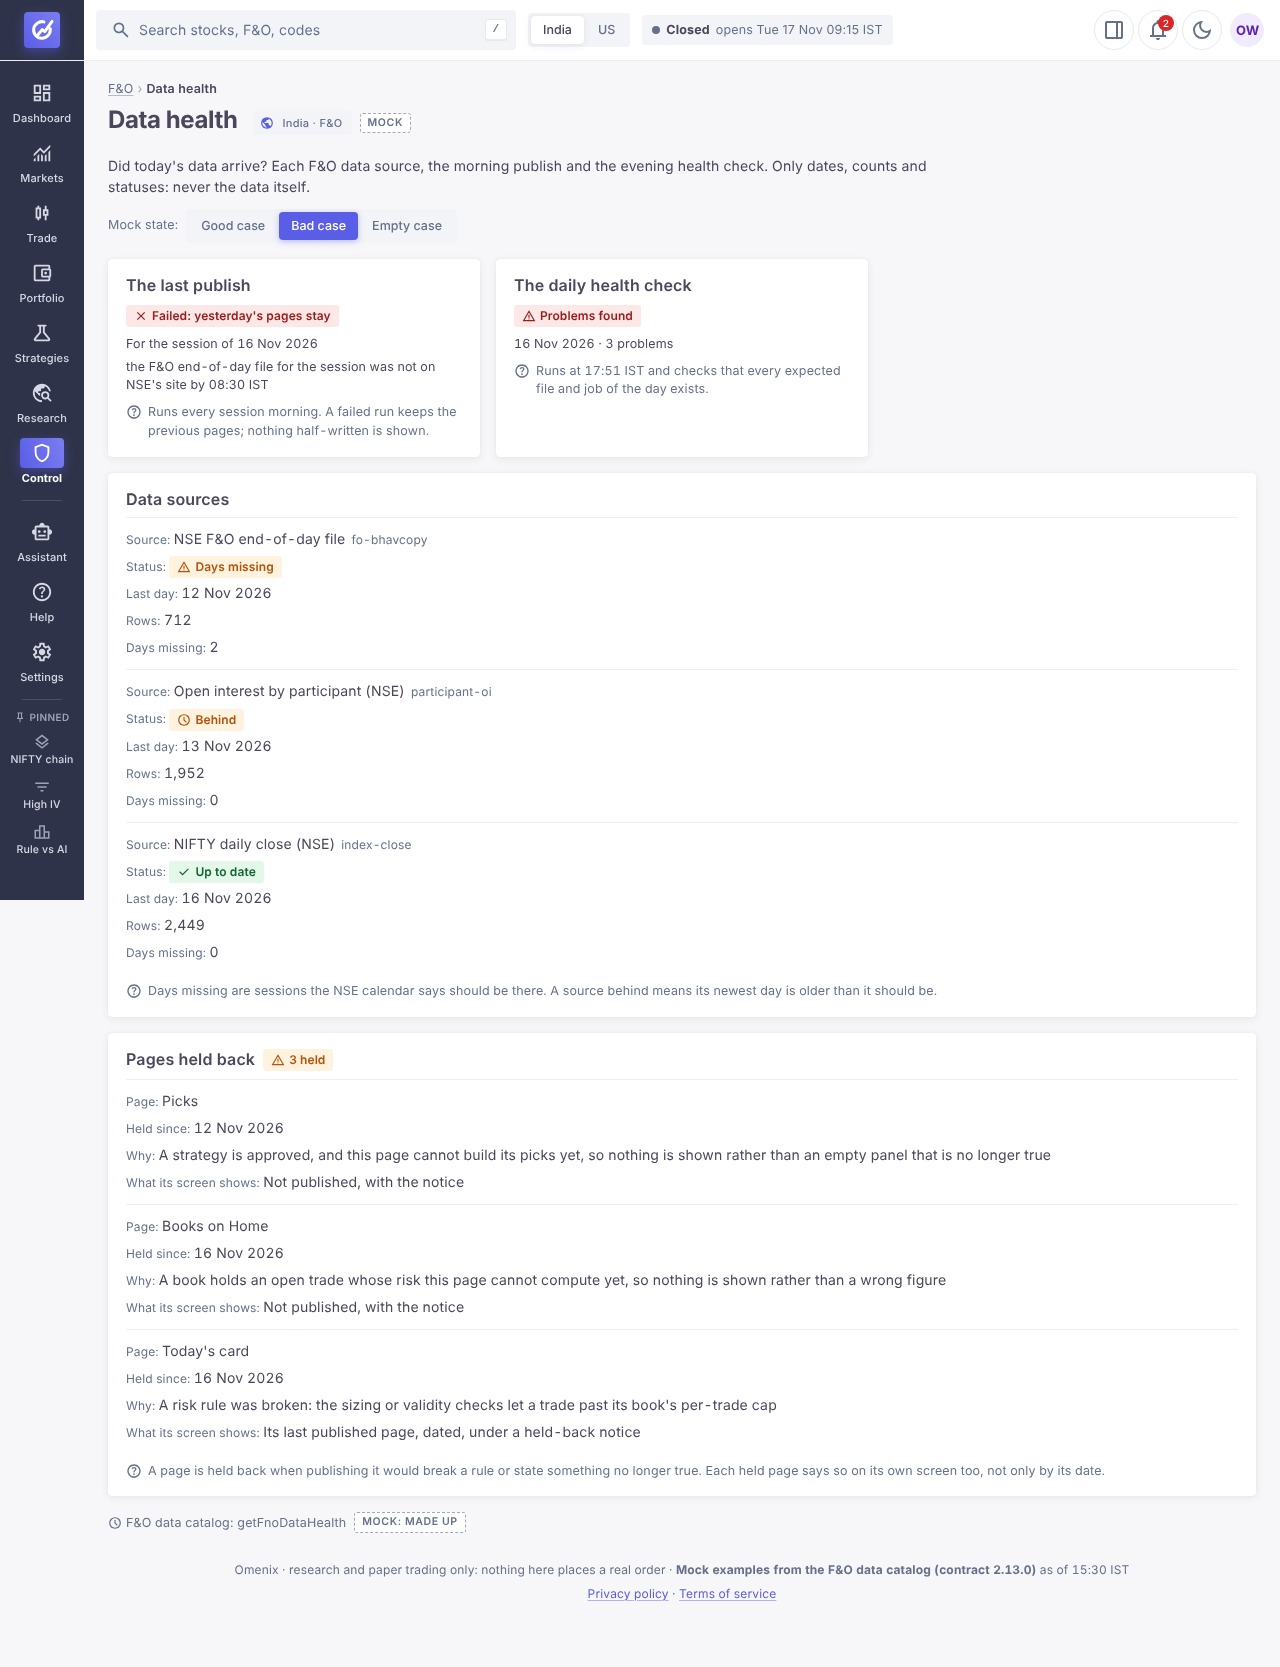
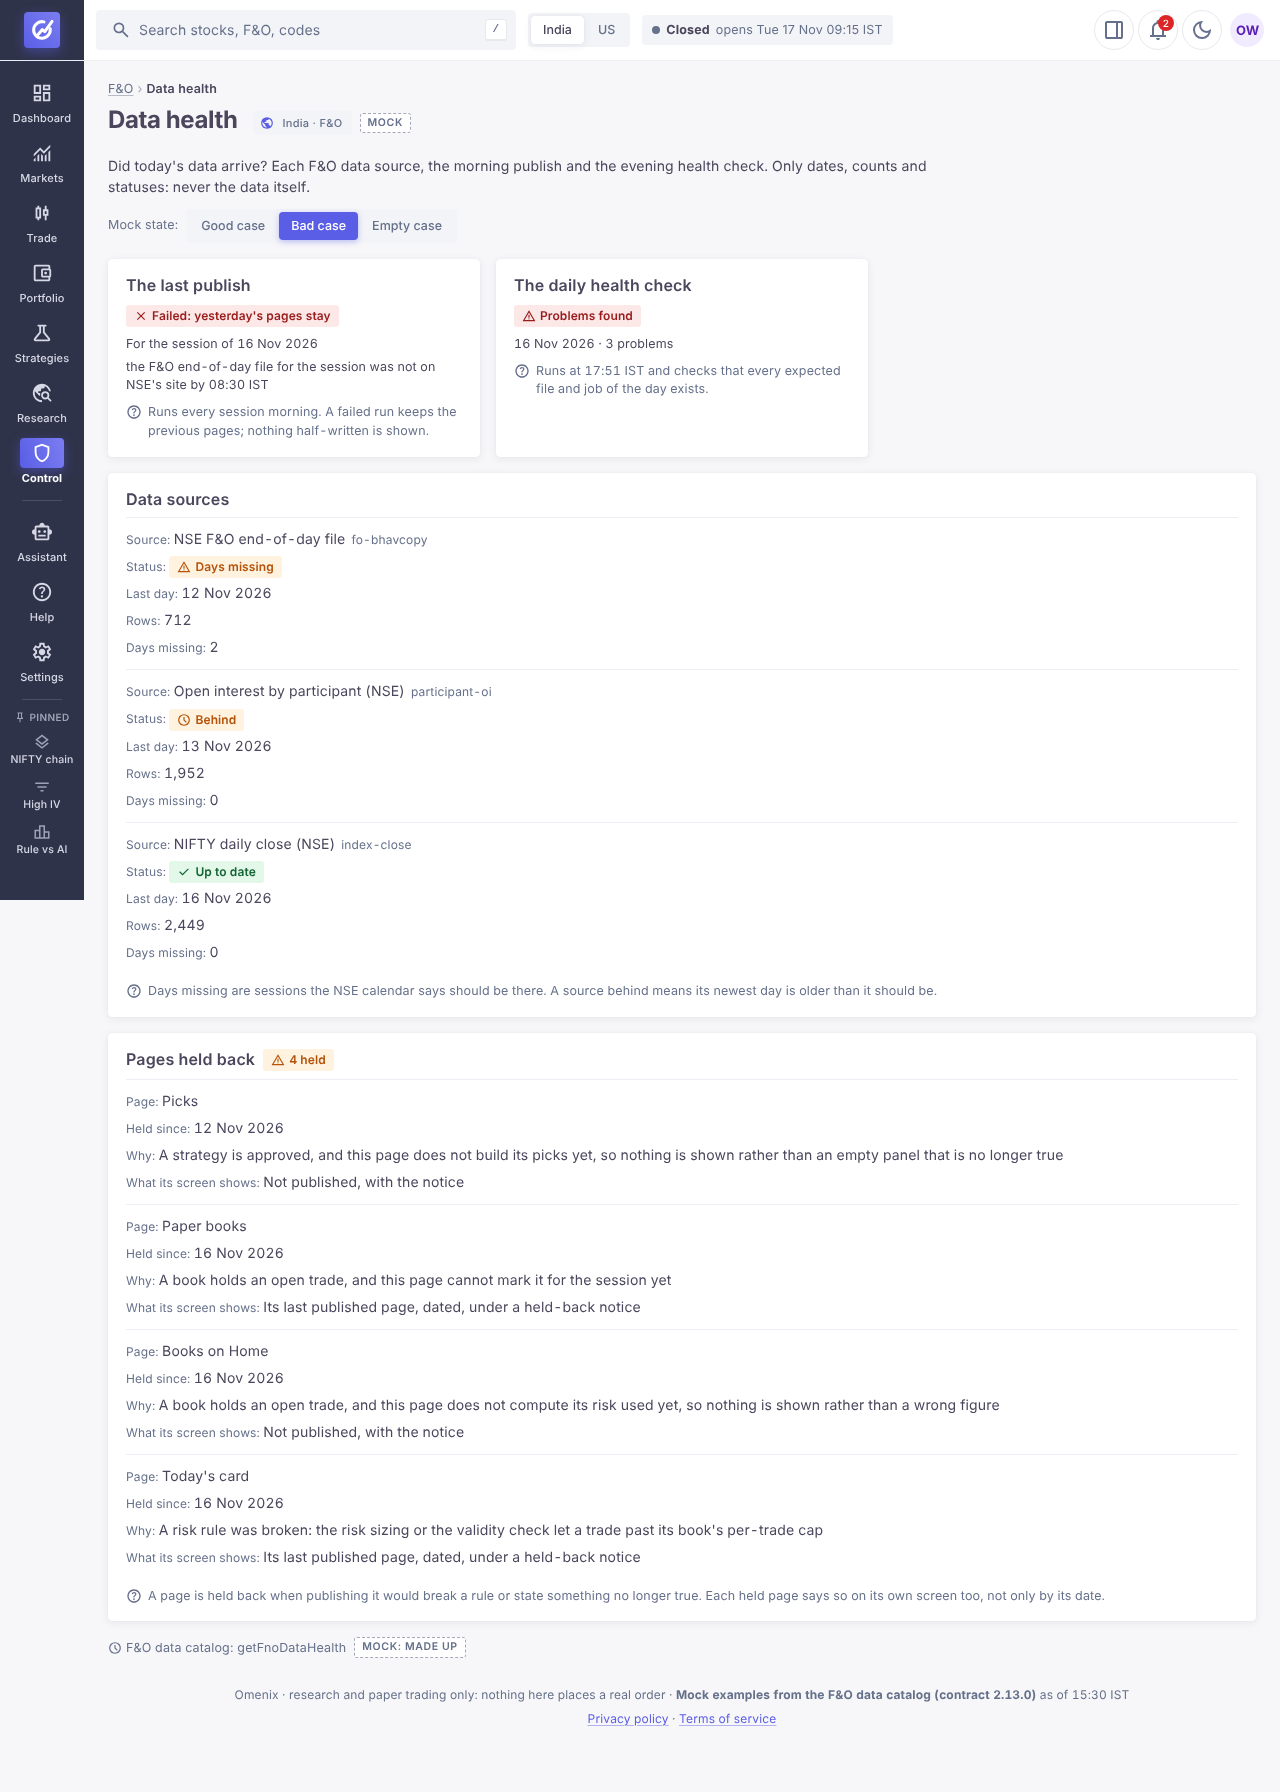
Contract 2.13.0: page_holds examples copy P11's final four hold sentences word for word (judge 255)
The card's risk rule, Home's books (risk) and picks (today), and the paper books' unmarked open trade, as the P2
builder's code has them (story/ph1-page-hold 30038563, digit-free and tested). One list, owned by P11's code.

Claude-Session: https://claude.ai/code/session_01XFXpbkyixX7SuXeQCp5EnX

diff --git a/design/mockups/44-data-health/page.html b/design/mockups/44-data-health/page.html
@@ -1505,7 +1505,7 @@ footer{color:var(--md-sys-color-on-surface-variant);font-size:12px;text-align:ce
   <symbol id="mb-logo" viewBox="0 0 64 64"><g fill="none" stroke="currentColor" stroke-width="7.5" stroke-linecap="round" stroke-linejoin="round"><path d="M52.3 29.15 A20.5 20.5 0 1 1 36.96 12.11"/><path d="M21 45 L33 31 L39 36 L57 11"/></g></symbol>
 </svg>
 
[2 lines of base64/hex data omitted]
 <script>
 /* every state is a Mock example on 16 Nov 2026 at 15:30 IST, after the card was sent (the catalog's made-up date) */
 (() => { SHELL.now = '2026-11-16T10:00:00Z';

diff --git a/api/catalog/fno-screens.md b/api/catalog/fno-screens.md
@@ -335,7 +335,7 @@ Backend records named in the tables (exepex/trading):
 - **What it holds:** The pages held back in this publication, each with the first session it was held in a row, the reason it was held and what the screen shows meanwhile. Empty state: holds empty (every page published normally)
 - **Mock examples:**
   - `india_none` (positive): Mock (india): every page published. A normal day: nothing held back
-  - `india_held` (negative): Mock (india): three pages held back. Home's picks and books show nothing (a page that would state something no longer true); the card shows the previous card under its own notice
+  - `india_held` (negative): Mock (india): four pages held back. Home's picks and books show nothing (a page that would state something no longer true); the paper books and the card show their previous page (the card under its own notice)
   - `india_first` (empty): Mock (india): the first publication. No page has been held yet
 - **Never sent (strategy internals):** the held page's figures or the value that broke the rule (only which page, since when and which rule)
 - **Fields:** 4, of which the backend can fill 0 today

diff --git a/design/mockups/44-data-health/notes.md b/design/mockups/44-data-health/notes.md
@@ -28,7 +28,7 @@ FnoDataHealth (`api/schemas/fno-data-health.yaml`), page `data_health`, contract
 
 **Pages held back (contract 2.13.0, `getFnoPageHolds`, page `page_holds`; judge 251 on P11):** drawn below the health
 rows in the same case as the state (data.json `also`): none on a good day; in the bad case Home's picks and books
-(nothing shown, since their old pages would state something no longer true) and the card (the previous card under its
+(nothing shown, since their old pages would state something no longer true), the paper books and the card (their previous page, the card under its
 own notice); none in the empty case. Each reason is one of P11's fixed sentences, owned by its code, in plain words
 with no digits (the schema refuses digits, so no value and no story code can enter; judge 255). Every held page also
 says so on its own screen.
